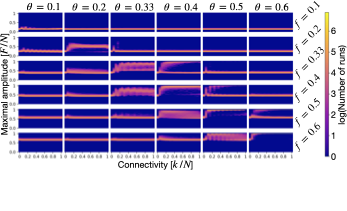
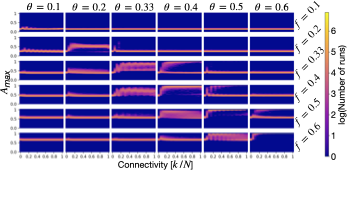
update figures

diff --git a/plotting_scripts/x=k_y=flash_count_qr_flash_cycle.py b/plotting_scripts/x=k_y=flash_count_qr_flash_cycle.py
@@ -9,7 +9,7 @@ pd.set_option('display.max_columns', None)
 pd.set_option('display.max_rows', None)
 
 N = 100
-clock_length = 34
+clock_length = 10
 T = 1000
 noise_level = 0.0
 connectivity = "k"  # "r" or "k"
@@ -63,12 +63,7 @@ for i, flash_proportion in enumerate([0.1, 0.2, 0.33, 0.4, 0.5, 0.6]):
         if connectivity == "r":
             data_path = f'/Volumes/Data/other/2026_firefly_synchronization/qr_f_experiments_r_com_range/flash_proportion={flash_proportion}_qr_threshold={qr_threshold}_update_noise=0.0/N={N}_C={clock_length}_T={T}_r_com_range_flash_counts.pkl'
         if connectivity == "k":
-            if flash_proportion == 0.5 and qr_threshold == 0.5:
-                data_path = f'/Volumes/Data/other/2026_firefly_synchronization/qr_f_experiments_k_graph/flash_proportion={flash_proportion}_qr_threshold={qr_threshold}_update_noise=0.0/N=100_C=34_T=1000_k_regular_graph_flash_counts.pkl'
-                # data_path = "/Volumes/Data/other/2026_firefly_synchronization/qr_f_experiments_k_graph/flash_proportion=0.5_qr_threshold=0.5_update_noise=0.0/N=150_C=50_T=1000_k_regular_graph_flash_counts.pkl"
-                path = Path(data_path)
-            else:
-                data_path = f'/Volumes/Data/other/2026_firefly_synchronization/qr_f_experiments_k_graph/flash_proportion={flash_proportion}_qr_threshold={qr_threshold}_update_noise=0.0/N={N}_C={clock_length}_T={T}_k_regular_graph_flash_counts.pkl'
+            data_path = f'/Volumes/Data/other/2026_firefly_synchronization/qr_f_experiments_k_graph/flash_proportion={flash_proportion}_qr_threshold={qr_threshold}_update_noise=0.0/N={N}_C={clock_length}_T={T}_k_regular_graph_flash_counts.pkl'
                 
         heatmap, data = get_heatmap(data_path, N)
         heatmaps[(i, k)] = (heatmap, data)

diff --git a/src/sandbox.py b/src/sandbox.py
@@ -11,5 +11,26 @@ matplotlib.use('QtAgg')
 # pd.set_option('display.max_rows', None)
 
 
-data_path = f'/Volumes/Data/other/2026_firefly_synchronization/qr_f_experiments_k_graph/flash_proportion=0.5_qr_threshold=0.5_update_noise=0.0/N=150_C=50_T=1000_k_regular_graph_flash_counts.pkl'
-data = pd.read_pickle(data_path)
+# data_path = f'/Volumes/Data/other/2026_firefly_synchronization/qr_f_experiments_k_graph/flash_proportion=0.5_qr_threshold=0.5_update_noise=0.0/N=150_C=50_T=1000_k_regular_graph_flash_counts.pkl'
+# data = pd.read_pickle(data_path)
+
+
+for r in [0.0, 0.1, 0.2, 0.3, 0.4, 0.5, 0.6, 0.7, 0.8, 0.9, 1.0, 1.1, 1.2, 1.3, 1.4, 1.5]:
+    for N in [100]:
+        rng = np.random.default_rng(0)
+        pos = rng.random((N, 2))
+        dists = np.sqrt(((pos[:, None, :] - pos[None, :, :]) ** 2).sum(axis=2))
+        communication_graph = ((dists < r) & (dists > 0)).astype(int)
+        
+        # Create graph from adjacency matrix
+        g = ig.Graph.Adjacency(
+            (communication_graph > 0).tolist(),
+            mode="undirected"  # use "directed" if your graph is directed
+        )
+        # Check if graph is connected
+        is_connected = g.is_connected()
+        print(f"Connected r={r}:", is_connected)
+        
+        
+        
+        
